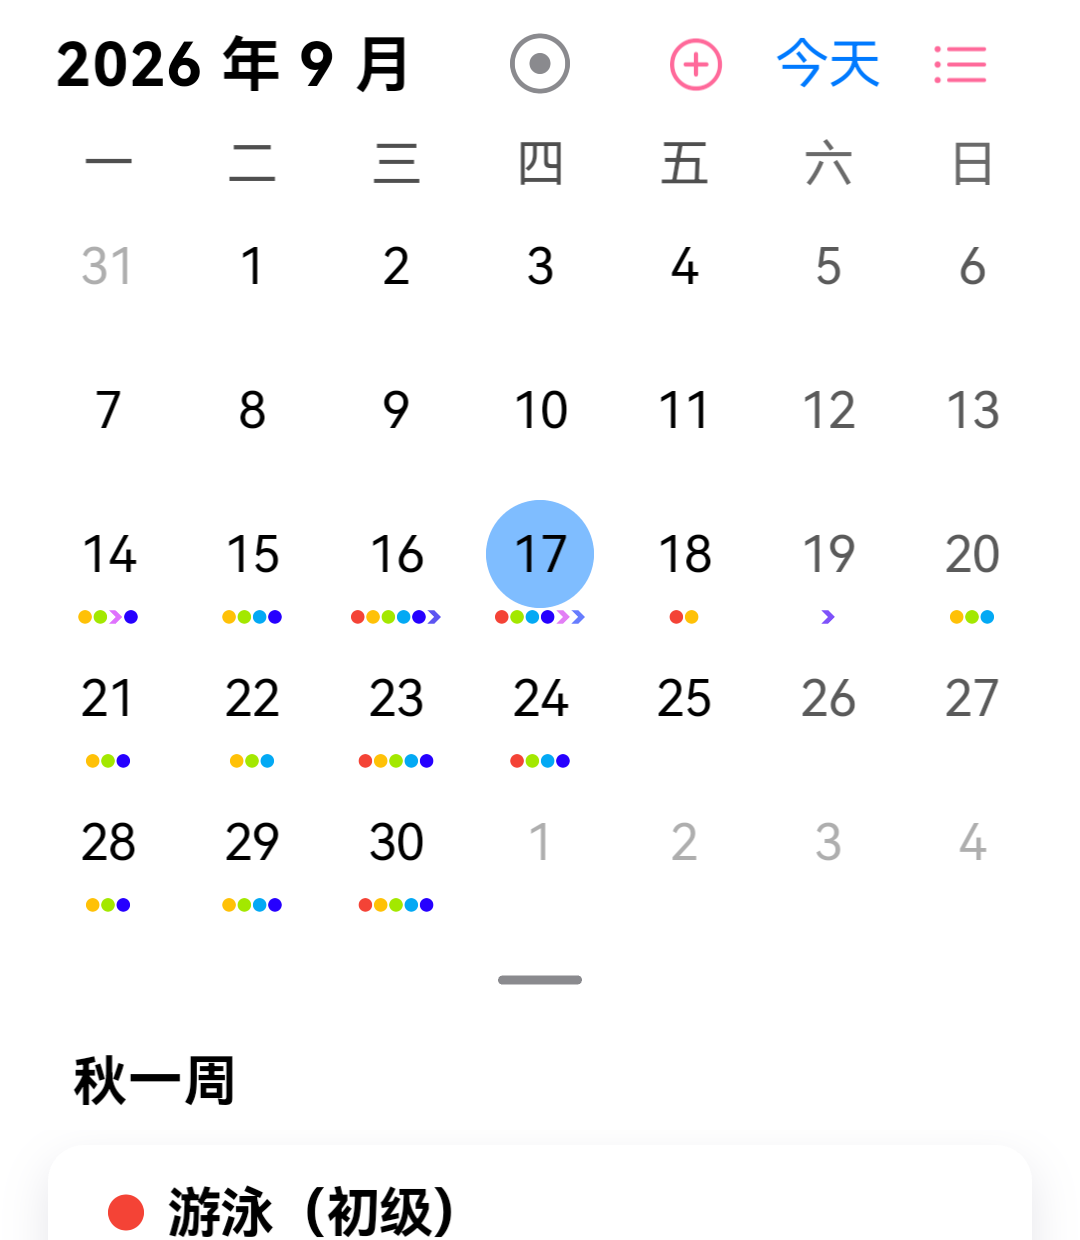
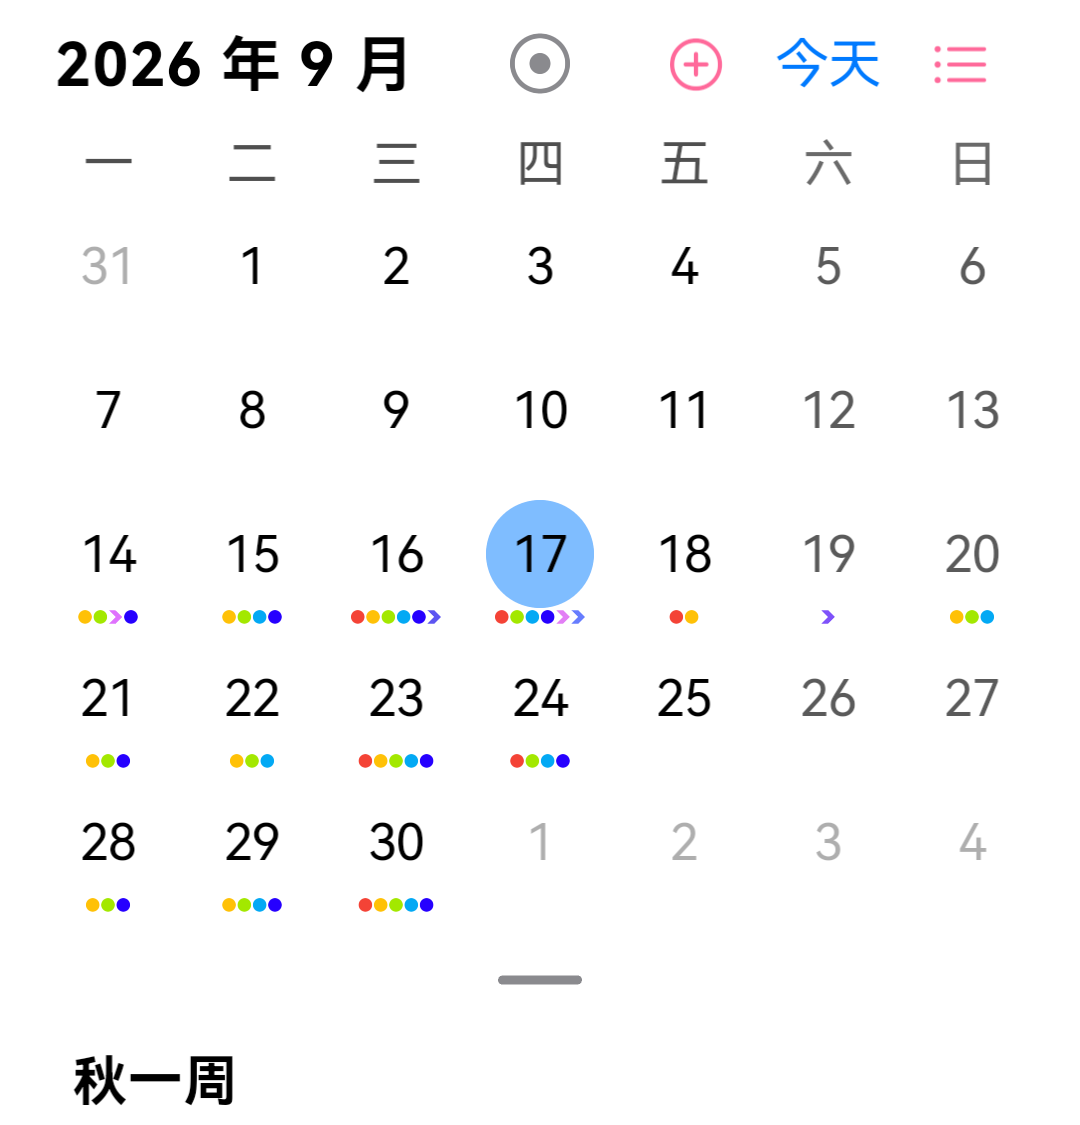
教程配图去隐私：抹掉两张图里的课表文字；补完 CC98 1.4.1 发布帖
用户意见：「基本操作第八步图二暴露我的课表了，请把所有的字抹掉。第十步也是一样的问题」

- assets/tutorial/basics/icon-schedule.png：裁到只剩「26-27秋冬 秋学期」标题 + 横V图标 + 周次行
  （原来是带课程方块的课表，暴露了选了哪些课）
- assets/tutorial/basics/fold-handle.png：裁到整月日历 + 折叠把手为止（下面带课名的"秋一周"列表裁掉）
- 真机验证：基本操作第 8 步、第 10 步两屏都不再出现任何课程名，上下文（"这是哪个页面"）仍然在

另：docs/CC98_POST_V1.4.1.md 按 CC98_POST_V1.4.0.md 的格式补完，
内容取自 WHATS_NEW_1.4.1.md，新增功能按"明显的先说"排（图文教程 / 课程挂载 / 专注三件事 /
iCal 导入 / 分享到已有待办 / 长按登录看连通性 / 一键复制反馈），
修复单列一段挑能感觉到的（成绩卡片卡死、活动待办滑不动、倒计时停在旧值、闹钟反复弹、
深色模式翻卡变白、秋冬半学期混淆…），截图处留了 【待上传：xxx】 占位。

diff --git a/docs/CC98_POST_V1.4.1.md b/docs/CC98_POST_V1.4.1.md
@@ -1,0 +1,176 @@
+# **【开源更新】Elychron 1.4.1 发布：App 里内置图文教程、课程挂载、专注归属，另附一批真实反馈的修复（含"点成绩卡片就卡死"）**
+
+ > 感谢Celechron原作者以及众多协作者的杰出工作！Elychron 是基于 Celechron 的衍生项目，由 Tixer 维护。
+
+ > 原项目版权归nosig及 Celechron 贡献者所有，遵循 GPLv3。
+
+ > Elychron 不是 Celechron 官方版本。
+
+ > 图片占位说明：文中 `【待上传：xxx】` 是发布时要贴的截图，按里面的描述截即可（都在 App 里点得到）。
+
+## 一、这次更新了什么
+
+1.4.0 发布之后，我这边陆陆续续收到了不少反馈。1.4.1 是一次**以"修问题 + 补教程"为主**的更新，但也有几件明显的新东西：
+
+- **App 里现在有图文教程了**：设置 → 使用教程，6 篇带截图的教程，从"配置"到"基本操作""课程""专注"，一篇一个功能
+- **课程挂载**：课程页面可以放课件与笔记、随手写点记录，还能把相关待办挂到这门课上
+- **专注模式补齐三件事**：专注时自动免打扰、**暂停后可以放心去干别的（回来接着计时）**、统计里可以按课程看专注时长
+- **教务数据更稳、更少打扰**：校历随包内置（上游那个站老是连不上）、被教务限流能自愈、不再每次刷新都把教务打一遍
+- **一口气修掉一批真问题**：点成绩卡片卡死、活动类待办右滑没反应、"接下来"的倒计时停在旧值、闹钟关掉后反复弹、深色模式翻卡片"变白再恢复"、秋冬半学期课程显示混淆、刷新很卡要退出重进……
+- **顺手加的小东西**：iCal（.ics）导入、分享到"已有待办"、长按登录看各接口通不通、一键复制反馈信息
+
+## 二、更新内容
+
+### 1. 新增功能
+
+**图文教程（App 内置）**
+
+- **设置 → 使用教程**：现在有 6 篇教程，**篇篇带真机截图**，照着做就行：
+  - **配置相关**：DeepSeek 密钥怎么申请、闹钟可靠性怎么配、异步刷新、反馈日志在哪
+  - **基本操作**：待办的三种手势（半划截图照着看，露出底色就是手势认到了）、日历 / 接下来 / 课表怎么切、日历怎么折叠与展开
+  - **课程相关 / 专注模式 / 待办 / 数据与备份**
+- 教程**离线**、**不需要登录**；看过的会自动打勾，随时可以重看；长按可以"重新观看"
+- 教程里的截图**点一下可以放大**（能捏合），不用再猜按钮在哪
+
+【待上传：教程中心截图（设置 → 使用教程，显示 6 篇教程列表）】
+
+**课程挂载：资料 / 评论 / 相关待办**
+
+- 从「日程 → 课表」点一节课，或从「学业 → 课程」点一门课，就进课程详情页
+- **资料**：课件、笔记、板书照片都可以放进来（点「添加图片 / 文件」）
+- **评论**：课程评分、老师口头交代的事、下次要带什么，随手记
+- **相关待办**：把作业和材料挂到这门课上，点「新建待办并挂到这门课」直接建
+- 顺带一句：**AI 整理时如果提到课程，会自动挂到那门课上**（不提就不挂，避免乱认）
+
+【待上传：课程详情页截图（资料 / 评论 / 相关待办 三块）】
+
+**专注模式：暂停可以放心离开 + 自动免打扰 + 按课程统计**
+
+- **暂停后可以切到别的页面**，临时想到什么待办可以直接记；回来说一句"继续"就接着计时（暂停的时间不计入专注时长）
+- **专注时自动免打扰**：开始专注时自动开免打扰，结束或中止时自动恢复（会记住你原来的设置，不会给你改坏）
+- **统计页新增"本月按课程"**：**自由专注只要开始时正在上课，也会算到那门课上**；专注页开始前就会写清楚"本次专注会计入《××》"
+- 专注记录每条都会带上课程名，一眼看得出这段算给谁了
+
+【待上传：专注页截图（含"本次专注会计入《××》"那行提示）】
+
+**iCal（.ics）文件导入**
+
+- 别的日历导出成 .ics，可以直接导进来变成待办；**重复导入不会重复**
+- 适合把教务、系统日历里的安排一次性搬过来
+
+**分享到「已有待办」**
+
+- 原来分享东西进来只能新建待办；现在可以**作为附件与描述追加到某条已有待办上**
+- 长程任务（论文、项目）特别顺手：聊天记录、文件、截图可以陆续挂到同一条上
+
+**长按「已登录」→ 看各接口通不通**
+
+- 设置页**长按**「已登录」那一行（或登录页长按登录按钮），弹出接口连通性面板：
+  校历 / 课表 / 考试 / 成绩 / 主修 / 作业 / 实践 逐条状态（实时成功（含耗时）/ 走缓存 / 没连上 / 未参与）
+- 被教务限流时会直接点名："这次有 N 个请求被教务限流（HTTP 921）——学校那边让你慢一点，不是 App 坏了"
+- 这个面板**不额外发请求**，数据就来自现成的诊断日志
+
+**一键「复制反馈信息」**
+
+- 设置 → 数据 → 复制反馈信息：机型、系统、版本 + **已脱敏**的日志一起进剪贴板，直接粘到群里就行
+- 比截图有用得多 —— 报问题请优先用这个
+
+**登录相关的两件小事**
+
+- **退出登录后仍然预填账号密码**（以前退出一次就得重新敲一遍）
+- **登录态失效如实显示 + 一键重登**（不再"看着像登录着、其实早就过期了"）
+
+**待办批量编辑**
+
+- 待办页可以对多条待办一次性改类型 / 时间 / 标签，不用一条条点
+
+**课前提醒**
+
+- 课表可以按提前量提醒你下一节在哪（算法里带了课间阈值，不会在上课中间乱响）
+
+### 2. 已有功能优化
+
+**教务数据：更稳、更少打扰**
+
+- **校历随包内置**：校历来自上游的公开接口（明文 HTTP，实测经常连不上），现在直接把校历 JSON 打进包里 —— **离线可用、首次安装就有**；之后**每周**才去试一次远程更新，有差异就按新的来
+- **被限流能自愈**：教务在"请求太密"时会返回 **HTTP 921**（不是标准 HTTP 码），以前遇到就整块失败落到缓存，现在会退避几秒重试一次
+- **少打教务**：历史学年的课表直接吃缓存（高年级原本一次刷新要查 16 次，现在 0 次）；"已知为空"的学期当天不再重复问；探针学年只探第一个学期 —— 实测一次刷新少打 4 个请求
+- **后台刷新改成慢节奏**：后台相邻两个教务请求至少隔 15 秒（前台仍是 300 毫秒），刷得慢一点，但不再撞限流，反正有缓存兜底
+- **启动刷新做了节流**：刚更新过就不再刷一次，避免和后台刷新叠在一起把教务打爆
+
+**修复（挑能明显感觉到的说）**
+
+- ★ **点成绩卡片任意位置会卡死** —— 真 bug，已修（一次空列表取值越界，又正好踩到 GetX 的一个坑，把主线程拖到满载）
+- ★ **活动类待办无法右滑完成 / 恢复** —— 已修，双向真机验证过
+- ★ **"接下来"的倒计时停在旧值** —— 已修（现在会跟着时间走）
+- ★ **闹钟关掉后一直重复弹** —— 已修
+- **深色模式翻卡片"变白一下再恢复"** —— 已修（翻页的页边没解析动态色）
+- **秋冬半学期课程显示混淆** —— 已找到机制并修掉（教务的半学期字段读不出来时会"按查询季节猜"，两次猜测一合并就成了"两半都上"；现在一边确定一边猜时以确定的为准）
+- **刷新很卡、要退出重进才能刷好** —— 已优化
+- **界面报错"一长串非常吓人"** —— 报错文案重做，说人话
+- **学业页整页空白 + 每 20 秒崩一次** —— 已定位并修复
+- **"老是显示登录已失效"的误报** —— 已修（登录判据只看统一身份认证）
+- **两个子页面底部被系统导航栏遮住** —— 已修
+- **课程 / 考试信息弹层重做** —— 信息更清楚，层级更顺
+
+### 3. 界面与文案
+
+- **弹窗全面统一成"钉钉风格"**（1.4.0 只改了一部分，这次清干净了）
+- **主题色统一**：为将来的"自定义主题色"留好了接口
+- **文案精简**：一堆啰嗦的说明改成一句话
+
+## 三、安装与数据
+
+**下载**：GitHub Release（只提供 arm64 包）
+
+https://github.com/Elyyyyyyyyxer/Elychron/releases/latest
+
+- 与官方 Celechron **包名不同，可以共存**，装它不会覆盖官方版，数据互不影响
+- 首次安装需要在系统里允许「安装未知来源应用」
+- 校验：APK 的 SHA-256 与签名指纹都写在 Release 说明里
+- 从 1.4.0 升上来**直接覆盖安装即可，数据不会丢**（1.4.1 还改了一版缓存自愈逻辑，就算缓存坏了也能自己修回来）
+
+## 四、数据迁移（重要！！！）
+
+**从官方版迁过来**：课表、成绩、考试、作业、素质拓展、校园卡**登录同一个学校账号就有**，不用搬。要手动处理的只有你自己手写的待办 —— 官方版没有数据导出功能，这部分得重建，建议在待办页截屏后选择 AI 生成待办。
+
+**从 1.4.0 升到 1.4.1**：直接把新包装上覆盖即可，不用做任何操作。
+
+**换手机**：设置 → 数据 → 导出数据（JSON），新手机上导入即可；现在也支持 **iCal（.ics）导入**，重复导入不会重复。
+
+## 五、已知问题
+
+- 只提供 arm64 包
+- **局域网直连网页端尚未开放**，为后续开发目标，当前版本不可使用
+- 跨网络同步（坚果云 / WebDAV）只有预留配置项，功能未实现
+- **桌面小组件（最近待办）仍在打磨**：部分机型会被系统的电池优化限制，出现"点了没反应"，正式开放时间待定
+- **教务限流期间**：如果短时间内刷新太频繁，教务会返回限流，这时课表 / 成绩会显示上一次的数据（面板里会直接告诉你"被限流了"）
+- **秋冬半学期的极端情况**：如果教务那边课程的半学期字段**整条都读不出来**，仍然只能按"两半都上"显示 —— 那时候任何自动判断都是猜
+- 校历现在**随包内置**，上游接口挂了也不影响使用；但内置那份要等发新版本才会更新
+- AI 功能需要自备模型服务商的 Key（目前仅支持 DeepSeek）
+
+## 六、反馈
+
+- 问题与建议请提到 [GitHub Issues](https://github.com/Elyyyyyyyyxer/Elychron/issues)
+- 报问题请附 **设置 → 数据 → 复制反馈信息**（或设置 → 诊断与测试 → 导出并分享 TXT），日志已自动脱敏，比截图有用得多
+- 想知道"到底哪个接口没通"，长按设置页的「已登录」即可
+
+## 七、后续开发方向
+
+ - **手把手引导**：在真实页面上高亮按钮 + 气泡提示（工程量偏大，已排到 v1.4.2）
+ - 多端同步，允许跨不同设备、网络进行待办等同步和管理
+ - 接入导航 API，更加精确规划预留提醒时间
+ - 软件风格自定义化（含自定义主题色），UI 动画优化
+
+**Elychron 没有自己的服务器，不收集、不上传任何数据。** 会联网的场景只有：拉取你自己的教务数据、课表兜底来源、只读的公开校历接口、检查更新，以及你主动开启的 AI（内容只发给你自己配置的服务商）。
+
+二编：
+差点忘记 AI 声明了……Elychron 全部由 DeepSeek、GPT、Claude、Gemini、GLM、我等大模型合作开发完成（）
+
+三编：
+【通知一下！】
+考虑到很多同学上不了 github，在这里我们提供几个国内网盘，失效了记得及时喊我！！
+夸克网盘：【待填】
+百度网盘：【待填】
+蓝奏云盘：【待填】
+gitee 仓库：https://gitee.com/P3RF3CT/elychron

diff --git a/docs/WHATS_NEW_1.4.1.md b/docs/WHATS_NEW_1.4.1.md
@@ -1590,6 +1590,7 @@ GetX 4.7.3 `get_rx/.../rx_interface.dart` 的 `notifyChildren`：
 | 5 | 专注模式第 1 步「把我手机的状态栏和导航栏截掉」 | 重裁：去掉状态栏与底部系统导航栏（y 96–2210） |
 | 6 | 第 8 步「下面的按钮都被截掉一半啦，保留行不行？还有缺少了上面的图标」 | 重拍：整页入画 —— 顶部「专注」标题 + 大圆 + 提示卡 + **继续 / 结束并结算按钮完整保留** |
 | 7 | 第 9 步「标题、正文没有左对齐」 | **真 bug**，见下 |
+| 8 | （追加）第 8 步图二与第 10 步「暴露我的课表了，请把所有的字抹掉」 | 两张都重裁到**不含任何课程名**：第 8 步的课表图只留学期标题 + 横 V 图标 + 周次行；第 10 步的日历图只留整月与折叠把手（下面那截带课名的列表裁掉） |
 
 ### 第 7 条是个真 bug（不是截图问题）
 
